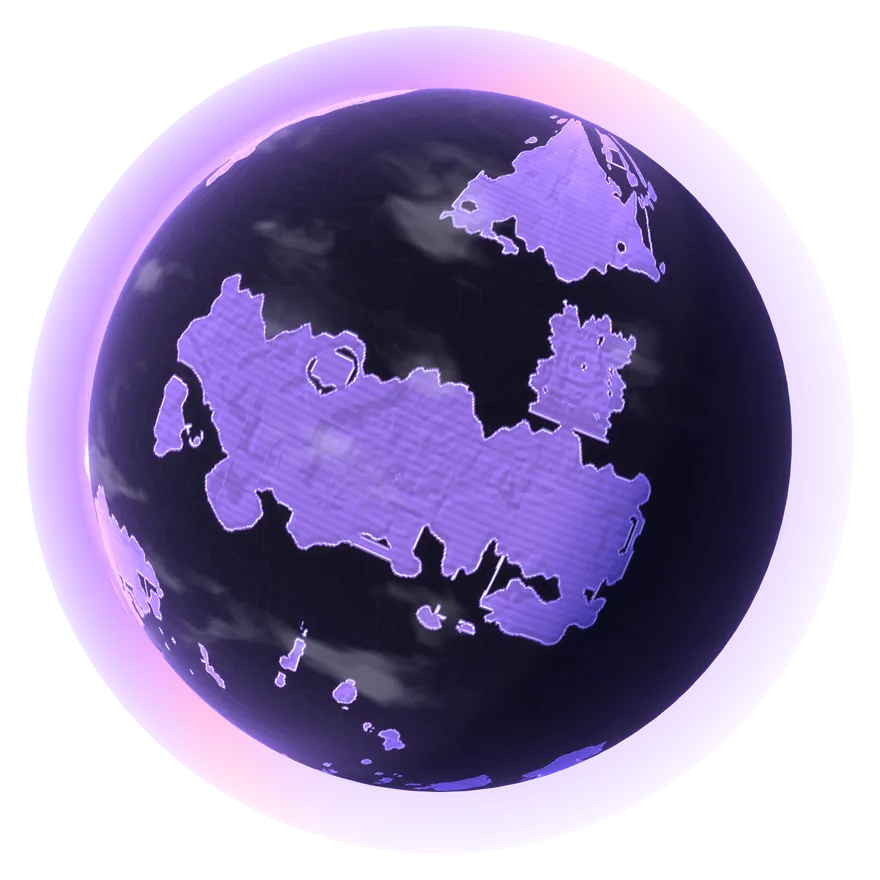
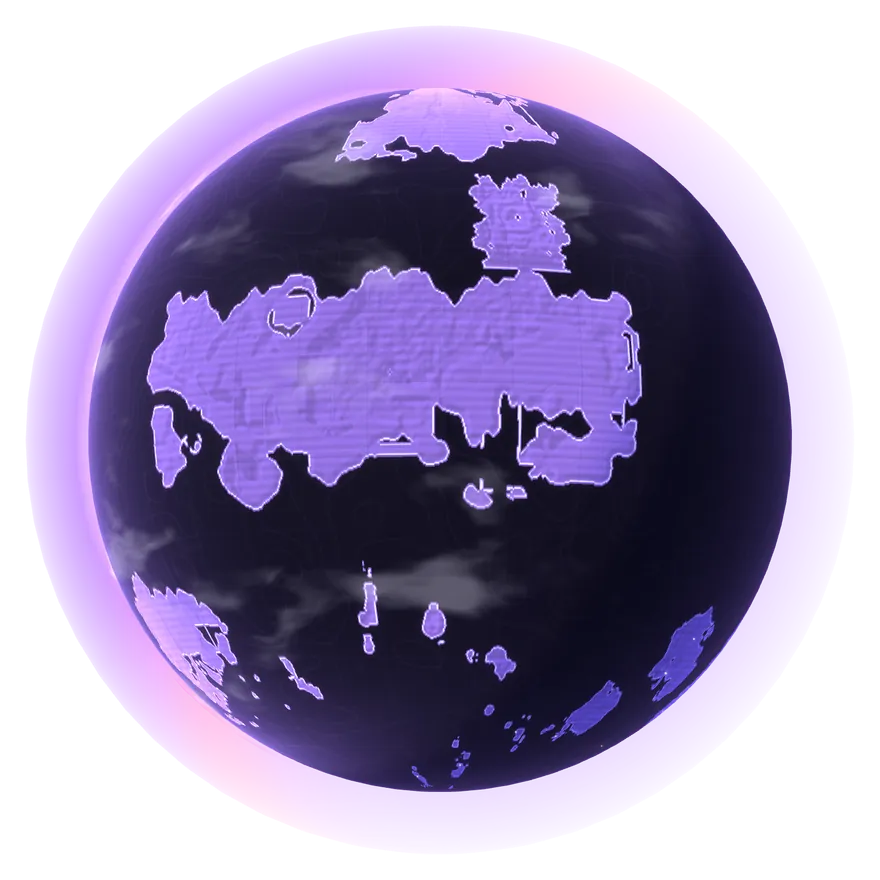
Landing globe: an upright axis, seen from a little below, so every region comes round (mock)
The landing planet leant on Earth's 23.4° axis and was seen from 9° above, so as it turned the far south stayed
under the fold. Its axis now stands straight up (TILT 0), the trainer on top, and the view looks a little up
(LOOK_DOWN -8°): on a laptop (1440 x 900) every main region's name comes on screen during a turn except Alola's
(its northern islands show at the fold); on a phone every one does. Further up and Sinnoh slips behind the trainer.

project.ts and the scene still share TILT and LOOK_DOWN; a new test (tests/hub-globe.test.ts) builds the scene's
three.js groups and camera and checks project.ts places every point exactly where three.js draws it.
The posters (hub-globe*.webp) are redrawn from the scene. The World Globe in the 3D Lab has no axis lean (only
its user-controlled view pitch), so it is unchanged.

diff --git a/tests/hub-globe.test.ts b/tests/hub-globe.test.ts
@@ -1,0 +1,56 @@
+import { describe, expect, it } from "vitest";
+import * as THREE from "three";
+import { FOV, LOOK_DOWN, TILT, cameraZ, project, toVec, turn, type Screen } from "@/components/geo/hub-globe/project";
+import { toVec as toVec3 } from "@/components/globe/world-look";
+
+/**
+ * The landing globe's DOM overlay (names, pins) is placed with project.ts's maths; the scene draws with three.js
+ * (hub-globe/scene.ts: a tilt group, Euler(LOOK_DOWN + tiltX, 0, -TILT, "XZY"), holding a spin group, Ry(angle)).
+ * Built the same way here, the two must agree, or the names slide off the land.
+ */
+describe("landing globe: project.ts agrees with the scene", () => {
+  const frac = 0.8;
+  const camera = new THREE.PerspectiveCamera(FOV, 1, 0.1, 50);
+  camera.position.set(0, 0, cameraZ(frac));
+  camera.lookAt(0, 0, 0);
+  camera.updateMatrixWorld();
+  const tiltG = new THREE.Group(), spinG = new THREE.Group();
+  tiltG.add(spinG);
+
+  it("the axis is upright (not leant sideways), the view a little from below", () => {
+    expect(TILT).toBe(0);
+    expect(LOOK_DOWN).toBeLessThan(0);
+  });
+
+  it("puts every point where three.js draws it", () => {
+    const s: Screen = { x: 0, y: 0, facing: 0 };
+    const W = 600, H = 600;
+    for (const angle of [0, 0.7, 2.1, 4.4]) {
+      for (const tiltX of [0, 0.2, -0.3]) {
+        tiltG.rotation.set(LOOK_DOWN + tiltX, 0, -TILT, "XZY");
+        spinG.rotation.set(0, angle, 0);
+        tiltG.updateMatrixWorld(true);
+        for (const [lon, lat] of [[0, 0], [60, 30], [-120, -50], [170, 75], [33, -40]]) {
+          const mine = turn(toVec(lon, lat), angle, tiltX);
+          const theirs = toVec3(lon, lat).applyMatrix4(spinG.matrixWorld);
+          expect(mine[0]).toBeCloseTo(theirs.x, 9);
+          expect(mine[1]).toBeCloseTo(theirs.y, 9);
+          expect(mine[2]).toBeCloseTo(theirs.z, 9);
+          project(mine, cameraZ(frac), W, H, s);
+          const ndc = theirs.clone().project(camera);
+          expect(s.x).toBeCloseTo((ndc.x * 0.5 + 0.5) * W, 6);
+          expect(s.y).toBeCloseTo((-ndc.y * 0.5 + 0.5) * H, 6);
+        }
+      }
+    }
+  });
+
+  it("the axis stands straight up the disc, under the trainer, as it turns", () => {
+    const s: Screen = { x: 0, y: 0, facing: 0 };
+    for (const angle of [0, 1.3, 4]) {
+      project(turn(toVec(0, 90), angle, 0), cameraZ(frac), 600, 600, s);
+      expect(s.x).toBeCloseTo(300, 6);
+      expect(s.y).toBeLessThan(300);
+    }
+  });
+});

diff --git a/src/components/geo/hub-globe/project.ts b/src/components/geo/hub-globe/project.ts
@@ -1,14 +1,22 @@
 /**
- * The landing globe's geometry, without three.js: where a longitude and latitude sit on the turning, tilted planet,
+ * The landing globe's geometry, without three.js: where a longitude and latitude sit on the turning planet,
  * and where that lands on the canvas. The live scene (scene.ts) draws with exactly this camera and these turns, so
  * the DOM overlays (region names, the Daily's pins) placed with it stay on the land; with no WebGL, the same maths
  * places them on the poster (the scene's own first frame).
  */
 
 export const D2R = Math.PI / 180;
-/** The axis's tilt (Earth's), and how far the view looks down on it, so the north and the south both show. */
-export const TILT = 23.4 * D2R;
-export const LOOK_DOWN = 9 * D2R;
+/**
+ * The axis's lean: none. Upright, every region comes round the front as it turns (leant, as Earth's 23.4°, the far
+ * south stayed under the fold on a laptop). The trainer stands on its top.
+ */
+export const TILT = 0;
+/**
+ * How far the view looks down on the world: a little up, from just under the equator, as the world's lower part is
+ * under the fold on a laptop (1440 × 900), so the far south (Hoenn, the top of Alola) still comes round on screen.
+ * Any further and Sinnoh, the far north, slips behind the trainer.
+ */
+export const LOOK_DOWN = -8 * D2R;
 /** A long lens, so the planet reads as a ball, not a bulge. */
 export const FOV = 26;
 /** Where the world faces when it appears (and on the poster): Johto and Kanto, front and centre. */

diff --git a/src/components/geo/hub-globe/scene.ts b/src/components/geo/hub-globe/scene.ts
@@ -8,7 +8,7 @@ import type { Overlay } from "./overlay";
 
 /**
  * The landing's planet: the World globe's own world (components/globe/world-look.ts: the holographic atlas in the
- * site's theme colours, its atmosphere, clouds and night lights), small, turning about a tilted axis under the
+ * site's theme colours, its atmosphere, clouds and night lights), small, turning about its upright axis under the
  * trainer, lit from up and to the left. The names and pins are DOM (overlay.ts), moved with it every frame.
  *
  * It turns on its own (a turn every 75 seconds); a drag turns it by hand (and, with a mouse, tips it a little), a
@@ -83,7 +83,7 @@ export function createHubGlobe(host: HTMLElement, grab: HTMLElement, o: HubGlobe
   camera.lookAt(0, 0, 0);
   camera.updateMatrixWorld();
   const scene = new THREE.Scene();
-  // The tilted axis (and the view a little from above), then the day's turn about it (as project.ts's turn()).
+  // The axis (upright: TILT and LOOK_DOWN are 0; a mouse drag tips it), then the day's turn about it (as project.ts's turn()).
   const tiltG = new THREE.Group();
   const spinG = new THREE.Group();
   tiltG.add(spinG);
